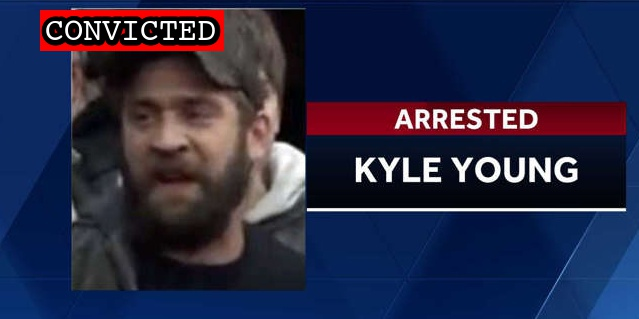
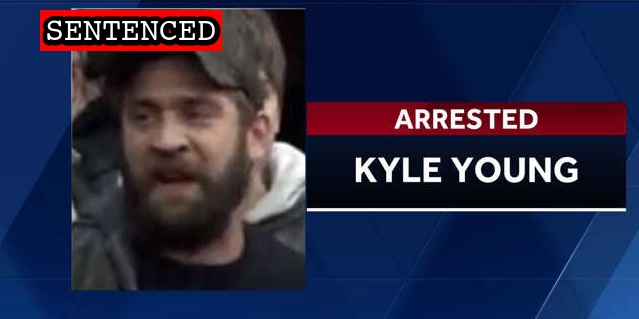
Young sentence

Changed region(s): [[0.0595, 0.0282, 0.2973, 0.1411], [0.3271, 0.0282, 0.3568, 0.1693]]

diff --git a/docs/_suspects/kyle-young.md b/docs/_suspects/kyle-young.md
@@ -4,17 +4,18 @@ lastName: Young
 hashtag: AscendDad
 aka:
 residence: Iowa
-status: Convicted
+status: Sentenced
 date: 2021-04-09
 charged: 2021-04-09
 indicted: 2021-04-09
 convicted: 2022-05-05
 acquitted:
-sentenced:
+sentenced: 2022-09-27
 dismissed:
 deceased:
 plea_hearing: 2022-05-05
 trial_date:
+trial_type:
 sentencing: 2022-09-27
 age: 37
 occupation:
@@ -41,6 +42,10 @@ charges:
     url: https://www.law.cornell.edu/uscode/text/18/111
     felony: true
 sentence:
+  - 86 months incarceration
+  - 3 years probation
+  - 100 hours community service
+  - $2000 restitution
 ---
 
 - [News Report](https://www.desmoinesregister.com/story/news/crime-and-courts/2021/04/16/kyle-james-young-charged-with-assaulting-washington-dc-police-officer-capitol-riot-attack/7262650002/)
